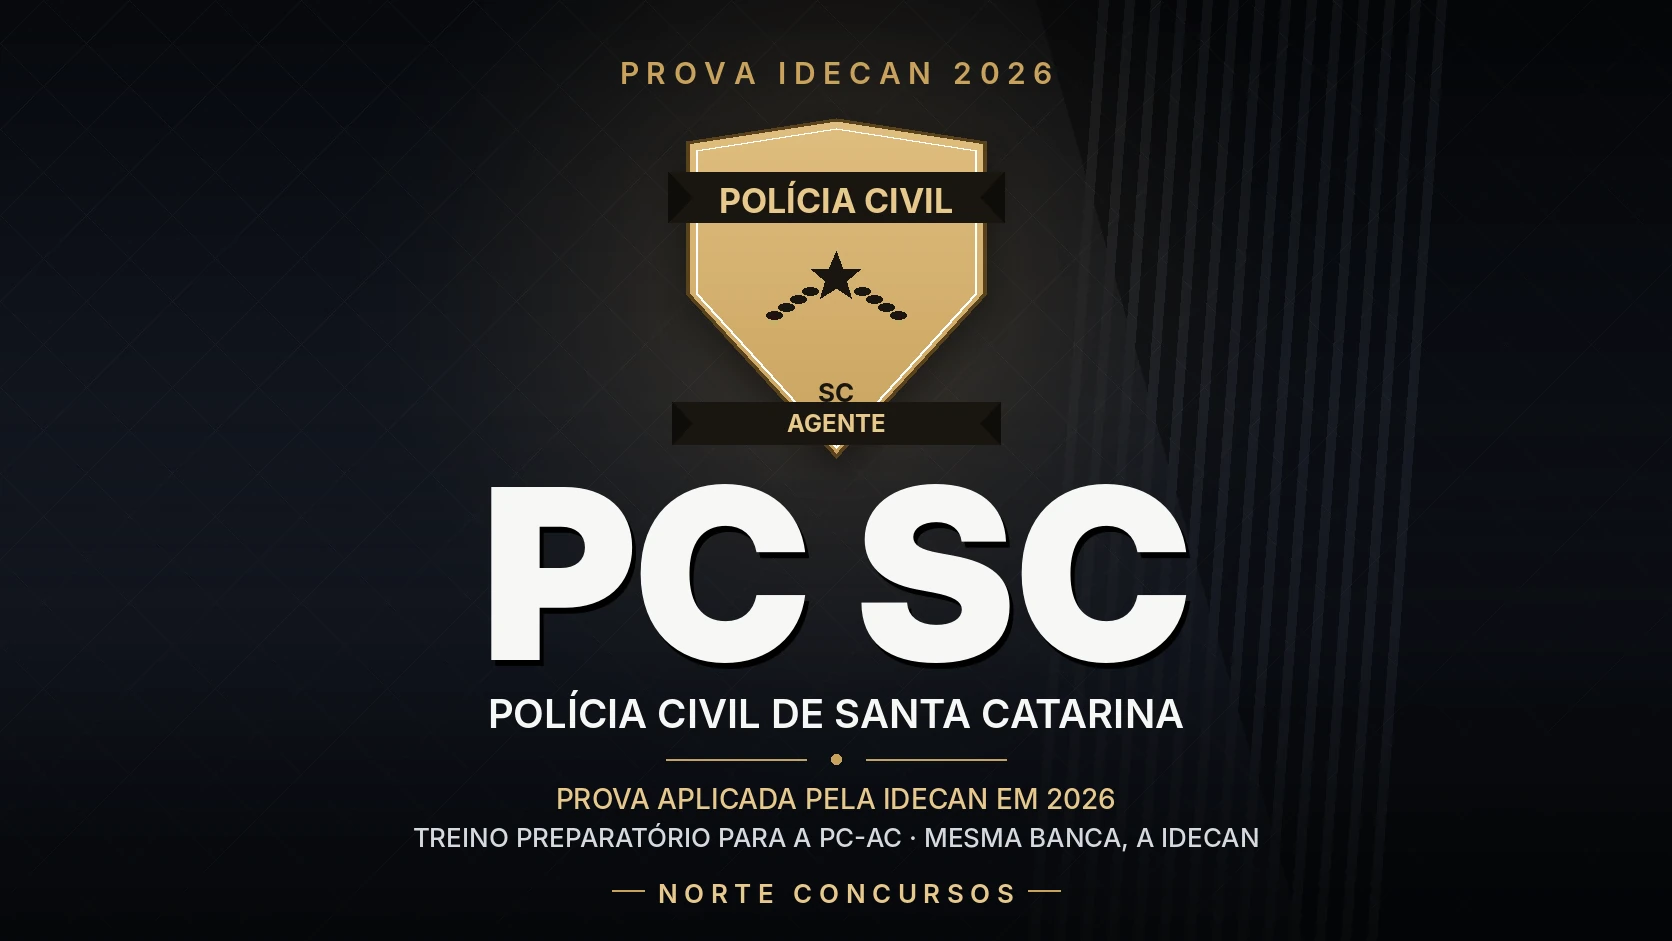
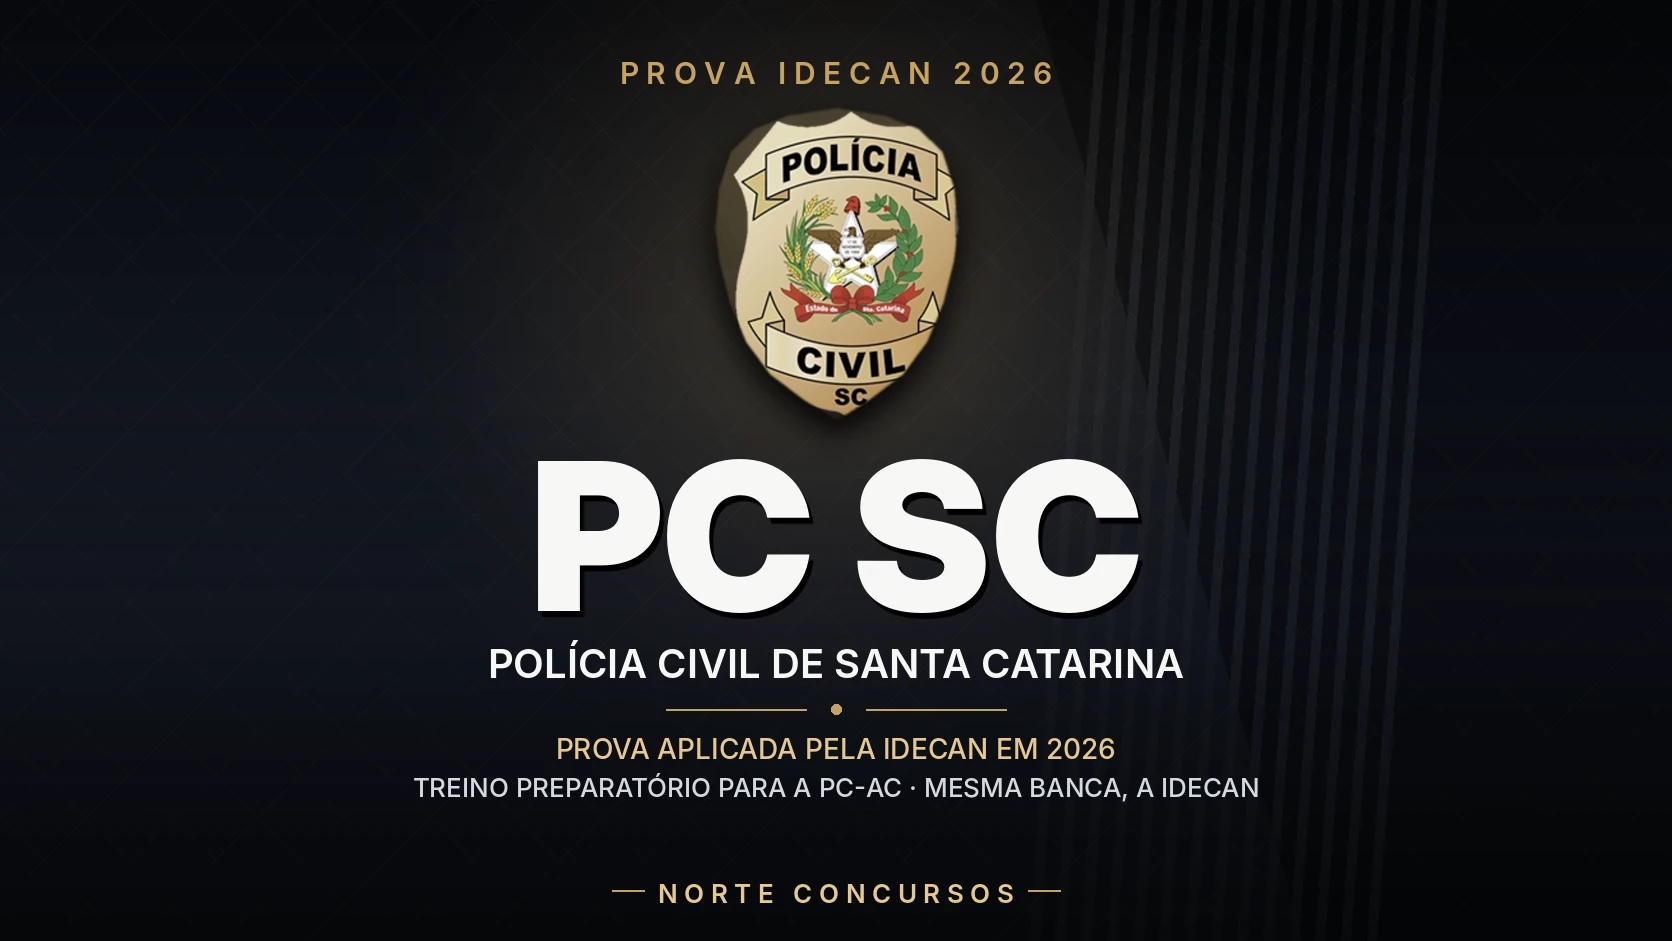
Usa o brasão oficial da PC-SC recortado da foto enviada pelo Franc
A pedido do Franc, troca o brasão genérico desenhado por um recorte
limpo do emblema oficial da Polícia Civil de SC, extraído da própria
arte de referência que ele enviou (sem o fundo tático e sem qualquer
texto/marca de terceiros, como "Dso"). Usado apenas como referência ao
concurso aplicado pela IDECAN, sem sugerir vínculo oficial.

Claude-Session: https://claude.ai/code/session_01VMJTm57STaNfS59eThceuU

Changed region(s): [[0.2488, 0.0925, 0.7464, 0.9245], [0.5909, 0.4315, 0.622, 0.4623], [0.4043, 0.4315, 0.4354, 0.4623]]

diff --git a/ASSET_ATTRIBUTIONS.md b/ASSET_ATTRIBUTIONS.md
@@ -1,6 +1,6 @@
 # Atribuições de recursos visuais
 
-- `public/media/hero/pcsc-capa.webp`: arte original composta por código (Python/Pillow), para a chamada da prova PC-SC (IDECAN 2026) na home. O usuário enviou como referência uma arte de terceiros ("Dso — Direito Simples e Objetivo") com o brasão oficial da Polícia Civil de SC; essa arte NÃO foi reproduzida. A peça final usa fundo gerado (gradiente + textura geométrica, no estilo das demais capas da campanha), um brasão genérico desenhado do zero (forma de escudo, estrela e ramos estilizados, sem o emblema oficial de SC) com as faixas "POLÍCIA CIVIL" / "SC" / "AGENTE", e todos os textos são autorais do Norte Concursos. Sem qualquer texto ou marca da arte original.
+- `public/media/hero/pcsc-capa.webp`: arte composta por código (Python/Pillow), para a chamada da prova PC-SC (IDECAN 2026) na home. O usuário enviou como referência uma arte de terceiros ("Dso — Direito Simples e Objetivo") com o brasão oficial da Polícia Civil de SC; essa arte de terceiros e seus textos NÃO foram reproduzidos. A pedido do usuário, o brasão foi recortado da própria foto de referência que ele enviou (silhueta isolada do emblema oficial da Polícia Civil de SC, sem o fundo tático nem qualquer texto/marca de terceiros) e colado sobre um fundo gerado do zero (gradiente escuro + textura geométrica, no estilo das demais capas da campanha). Todo o texto da peça ("PC SC", "POLÍCIA CIVIL DE SANTA CATARINA", "PROVA APLICADA PELA IDECAN EM 2026", etc.) é autoral do Norte Concursos. O brasão é usado apenas como referência ao concurso aplicado pela IDECAN, sem sugerir vínculo oficial com a Polícia Civil de Santa Catarina.
 
 - `public/media/franc-denis-retrato-v1.webp`: edição com a ferramenta integrada de geração de imagens (modo edit, identity-preserve), a partir da imagem do agente enviada pelo usuário para a seção Nossa história. Prompt: preservar o rosto, óculos, postura, camisa azul, colete e calça caqui do agente principal; remover integralmente a pessoa que aparece na lateral; substituir o fundo por um cenário arquitetônico sóbrio em azul escuro com luz quente discreta; enquadramento vertical 3:4, da cabeça até as coxas, sem textos nem outras pessoas. Conversão de PNG para WebP sem corte adicional.
 
